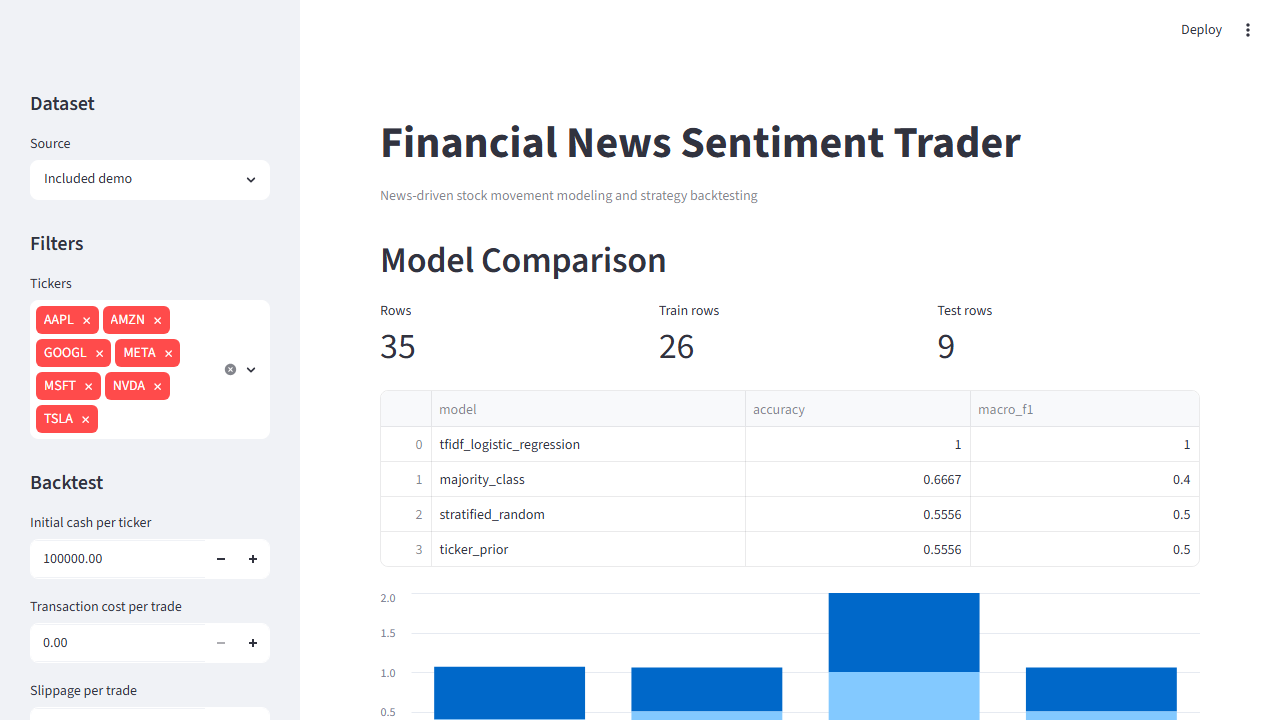
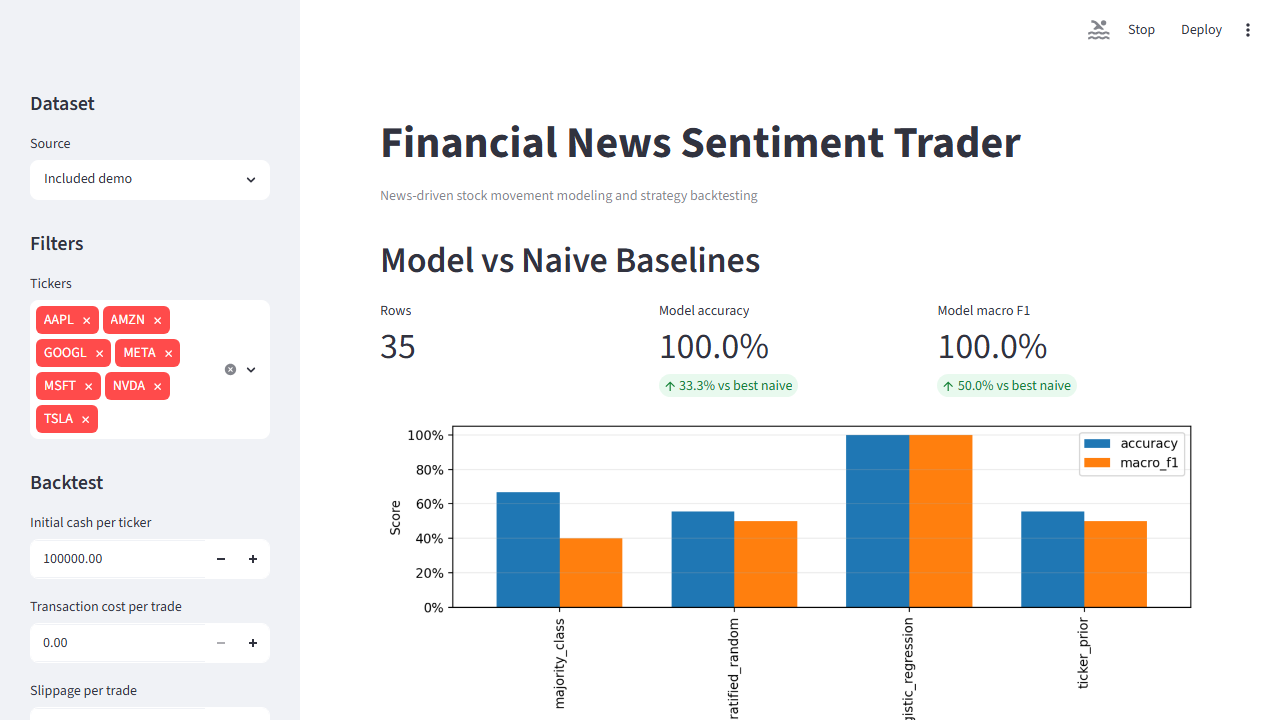
Make dashboard charts more purposeful

diff --git a/src/trading_sentiment/app.py b/src/trading_sentiment/app.py
@@ -4,12 +4,18 @@ import json
 from pathlib import Path
 from typing import Any
 
+import matplotlib.pyplot as plt
 import pandas as pd
 import streamlit as st
+from matplotlib.ticker import PercentFormatter
 
 from trading_sentiment.backtest import backtest_predictions
 from trading_sentiment.dashboard import (
+    build_average_equity_curve,
     build_metric_comparison,
+    build_metric_score_chart,
+    build_prediction_signal_counts,
+    build_return_chart,
     collect_tickers,
     filter_by_tickers,
 )
@@ -31,6 +37,27 @@ def load_csv(path: str) -> pd.DataFrame:
 def load_metrics(path: str) -> dict[str, Any]:
     with Path(path).open(encoding="utf-8") as metrics_file:
         return json.load(metrics_file)
+
+
+def show_grouped_bar_chart(
+    chart_data: pd.DataFrame,
+    index: str,
+    columns: str,
+    values: str,
+    ylabel: str,
+    percent_axis: bool = False,
+) -> None:
+    pivot = chart_data.pivot(index=index, columns=columns, values=values)
+    fig, ax = plt.subplots(figsize=(9, 4))
+    pivot.plot(kind="bar", ax=ax, width=0.72)
+    ax.set_xlabel("")
+    ax.set_ylabel(ylabel)
+    ax.legend(title="")
+    ax.grid(axis="y", alpha=0.25)
+    if percent_axis:
+        ax.yaxis.set_major_formatter(PercentFormatter(1.0))
+    fig.tight_layout()
+    st.pyplot(fig, clear_figure=True)
 
 
 st.title("Financial News Sentiment Trader")
@@ -75,13 +102,33 @@ with st.sidebar:
 if metrics is not None:
     metric_comparison = build_metric_comparison(metrics)
     if not metric_comparison.empty:
-        st.header("Model Comparison")
+        st.header("Model vs Naive Baselines")
         metric_cols = st.columns(3)
         metric_cols[0].metric("Rows", int(metrics.get("row_count", 0)))
-        metric_cols[1].metric("Train rows", int(metrics.get("train_row_count", 0)))
-        metric_cols[2].metric("Test rows", int(metrics.get("test_row_count", 0)))
+        model_row = metric_comparison.iloc[0]
+        naive_rows = metric_comparison.iloc[1:]
+        best_naive_accuracy = naive_rows["accuracy"].max() if not naive_rows.empty else 0.0
+        best_naive_f1 = naive_rows["macro_f1"].max() if not naive_rows.empty else 0.0
+        metric_cols[1].metric(
+            "Model accuracy",
+            f"{model_row['accuracy']:.1%}",
+            delta=f"{model_row['accuracy'] - best_naive_accuracy:.1%} vs best naive",
+        )
+        metric_cols[2].metric(
+            "Model macro F1",
+            f"{model_row['macro_f1']:.1%}",
+            delta=f"{model_row['macro_f1'] - best_naive_f1:.1%} vs best naive",
+        )
+        metric_chart = build_metric_score_chart(metric_comparison)
+        show_grouped_bar_chart(
+            metric_chart,
+            index="model",
+            columns="metric",
+            values="score",
+            ylabel="Score",
+            percent_axis=True,
+        )
         st.dataframe(metric_comparison, use_container_width=True)
-        st.bar_chart(metric_comparison.set_index("model")[["accuracy", "macro_f1"]])
 else:
     st.info("No metrics found yet. Run `train-baseline` first.")
 
@@ -99,12 +146,13 @@ with left:
         st.info("No modeling dataset found yet. Run `build-dataset` first.")
 
 with right:
-    st.subheader("Baseline predictions")
+    st.subheader("Prediction signals")
     if predictions is not None:
         filtered_predictions = filter_by_tickers(predictions, selected_tickers)
         st.metric("Prediction rows", len(filtered_predictions))
-        if "predicted_label" in filtered_predictions.columns:
-            st.bar_chart(filtered_predictions["predicted_label"].value_counts().sort_index())
+        signal_counts = build_prediction_signal_counts(filtered_predictions)
+        if not signal_counts.empty:
+            st.bar_chart(signal_counts, x="ticker", y="count", color="signal")
         st.dataframe(filtered_predictions.head(25), use_container_width=True)
     else:
         st.info("No predictions found yet. Run `train-baseline` first.")
@@ -119,16 +167,33 @@ if predictions is not None:
             transaction_cost=transaction_cost,
             slippage_pct=slippage_pct,
         )
-        st.subheader("Strategy summary")
-        st.dataframe(summary, use_container_width=True)
-
+        st.subheader("Strategy vs Buy/Hold")
         if not summary.empty:
-            chart_data = summary.set_index("ticker")[["strategy_return", "buy_hold_return"]]
-            st.bar_chart(chart_data)
+            return_chart = build_return_chart(summary)
+            show_grouped_bar_chart(
+                return_chart,
+                index="ticker",
+                columns="series",
+                values="return",
+                ylabel="Return",
+                percent_axis=True,
+            )
+            summary_columns = [
+                "ticker",
+                "strategy_return",
+                "buy_hold_return",
+                "excess_return",
+                "trade_count",
+                "max_drawdown",
+                "sharpe_like",
+            ]
+            visible_columns = [column for column in summary_columns if column in summary.columns]
+            st.dataframe(summary[visible_columns], use_container_width=True)
 
-        st.subheader("Equity curve")
+        st.subheader("Average Equity Curve")
         if not equity_curve.empty:
-            st.line_chart(equity_curve, x="date", y="equity", color="ticker")
+            average_equity = build_average_equity_curve(equity_curve)
+            st.line_chart(average_equity, x="date", y="equity", color="series")
         st.dataframe(equity_curve, use_container_width=True)
 
         st.subheader("Trades")

diff --git a/src/trading_sentiment/dashboard.py b/src/trading_sentiment/dashboard.py
@@ -4,6 +4,8 @@ from typing import Any
 
 import pandas as pd
 
+SIGNAL_LABELS = {-1: "Sell", 0: "Hold", 1: "Buy"}
+
 
 def collect_tickers(*frames: pd.DataFrame | None) -> list[str]:
     """Return sorted tickers from any loaded dashboard frames."""
@@ -46,3 +48,68 @@ def build_metric_comparison(metrics: dict[str, Any]) -> pd.DataFrame:
         )
 
     return pd.DataFrame(rows)
+
+
+def build_metric_score_chart(metric_comparison: pd.DataFrame) -> pd.DataFrame:
+    """Shape model metrics for a grouped score chart."""
+    if metric_comparison.empty:
+        return pd.DataFrame(columns=["model", "metric", "score"])
+    return metric_comparison.melt(
+        id_vars="model",
+        value_vars=["accuracy", "macro_f1"],
+        var_name="metric",
+        value_name="score",
+    )
+
+
+def build_prediction_signal_counts(predictions: pd.DataFrame) -> pd.DataFrame:
+    """Count buy/hold/sell predictions per ticker."""
+    required_columns = {"ticker", "predicted_label"}
+    if predictions.empty or not required_columns.issubset(predictions.columns):
+        return pd.DataFrame(columns=["ticker", "signal", "count"])
+
+    rows = predictions.copy()
+    rows["signal"] = rows["predicted_label"].astype(int).map(SIGNAL_LABELS).fillna("Other")
+    return (
+        rows.groupby(["ticker", "signal"])
+        .size()
+        .reset_index(name="count")
+        .sort_values(["ticker", "signal"])
+    )
+
+
+def build_return_chart(summary: pd.DataFrame) -> pd.DataFrame:
+    """Shape strategy and buy/hold returns for a ticker comparison chart."""
+    required_columns = {"ticker", "strategy_return", "buy_hold_return"}
+    if summary.empty or not required_columns.issubset(summary.columns):
+        return pd.DataFrame(columns=["ticker", "series", "return"])
+
+    sort_column = "excess_return" if "excess_return" in summary.columns else "strategy_return"
+    sorted_summary = summary.sort_values(sort_column, ascending=False)
+    return sorted_summary.melt(
+        id_vars="ticker",
+        value_vars=["strategy_return", "buy_hold_return"],
+        var_name="series",
+        value_name="return",
+    )
+
+
+def build_average_equity_curve(equity_curve: pd.DataFrame) -> pd.DataFrame:
+    """Average per-ticker equity curves into strategy-vs-buy/hold lines."""
+    required_columns = {"date", "equity", "buy_hold_equity"}
+    if equity_curve.empty or not required_columns.issubset(equity_curve.columns):
+        return pd.DataFrame(columns=["date", "series", "equity"])
+
+    averaged = (
+        equity_curve.groupby("date")[["equity", "buy_hold_equity"]]
+        .mean()
+        .reset_index()
+        .sort_values("date")
+    )
+    chart_data = averaged.melt(
+        id_vars="date",
+        value_vars=["equity", "buy_hold_equity"],
+        var_name="series",
+        value_name="value",
+    )
+    return chart_data.rename(columns={"value": "equity"})

diff --git a/tests/test_dashboard.py b/tests/test_dashboard.py
@@ -1,7 +1,11 @@
 import pandas as pd
 
 from trading_sentiment.dashboard import (
+    build_average_equity_curve,
     build_metric_comparison,
+    build_metric_score_chart,
+    build_prediction_signal_counts,
+    build_return_chart,
     collect_tickers,
     filter_by_tickers,
 )
@@ -46,3 +50,71 @@ def test_build_metric_comparison_includes_model_and_naive_baselines():
         "ticker_prior",
     ]
     assert comparison["accuracy"].tolist() == [0.75, 0.5, 0.7]
+
+
+def test_build_metric_score_chart_melts_accuracy_and_f1():
+    comparison = pd.DataFrame(
+        [
+            {"model": "model", "accuracy": 0.75, "macro_f1": 0.6},
+            {"model": "baseline", "accuracy": 0.5, "macro_f1": 0.4},
+        ]
+    )
+
+    chart_data = build_metric_score_chart(comparison)
+
+    assert set(chart_data.columns) == {"model", "metric", "score"}
+    assert len(chart_data) == 4
+
+
+def test_build_prediction_signal_counts_groups_by_ticker_and_signal():
+    predictions = pd.DataFrame(
+        [
+            {"ticker": "AAPL", "predicted_label": 1},
+            {"ticker": "AAPL", "predicted_label": -1},
+            {"ticker": "MSFT", "predicted_label": 1},
+        ]
+    )
+
+    counts = build_prediction_signal_counts(predictions)
+
+    assert counts.to_dict("records") == [
+        {"ticker": "AAPL", "signal": "Buy", "count": 1},
+        {"ticker": "AAPL", "signal": "Sell", "count": 1},
+        {"ticker": "MSFT", "signal": "Buy", "count": 1},
+    ]
+
+
+def test_build_return_chart_compares_strategy_to_buy_hold():
+    summary = pd.DataFrame(
+        [
+            {
+                "ticker": "AAPL",
+                "strategy_return": 0.05,
+                "buy_hold_return": 0.02,
+                "excess_return": 0.03,
+            }
+        ]
+    )
+
+    chart_data = build_return_chart(summary)
+
+    assert chart_data.to_dict("records") == [
+        {"ticker": "AAPL", "series": "strategy_return", "return": 0.05},
+        {"ticker": "AAPL", "series": "buy_hold_return", "return": 0.02},
+    ]
+
+
+def test_build_average_equity_curve_compares_average_equity_lines():
+    equity_curve = pd.DataFrame(
+        [
+            {"date": "2024-01-02", "ticker": "AAPL", "equity": 100, "buy_hold_equity": 100},
+            {"date": "2024-01-02", "ticker": "MSFT", "equity": 110, "buy_hold_equity": 120},
+        ]
+    )
+
+    chart_data = build_average_equity_curve(equity_curve)
+
+    assert chart_data.to_dict("records") == [
+        {"date": "2024-01-02", "series": "equity", "equity": 105.0},
+        {"date": "2024-01-02", "series": "buy_hold_equity", "equity": 110.0},
+    ]
